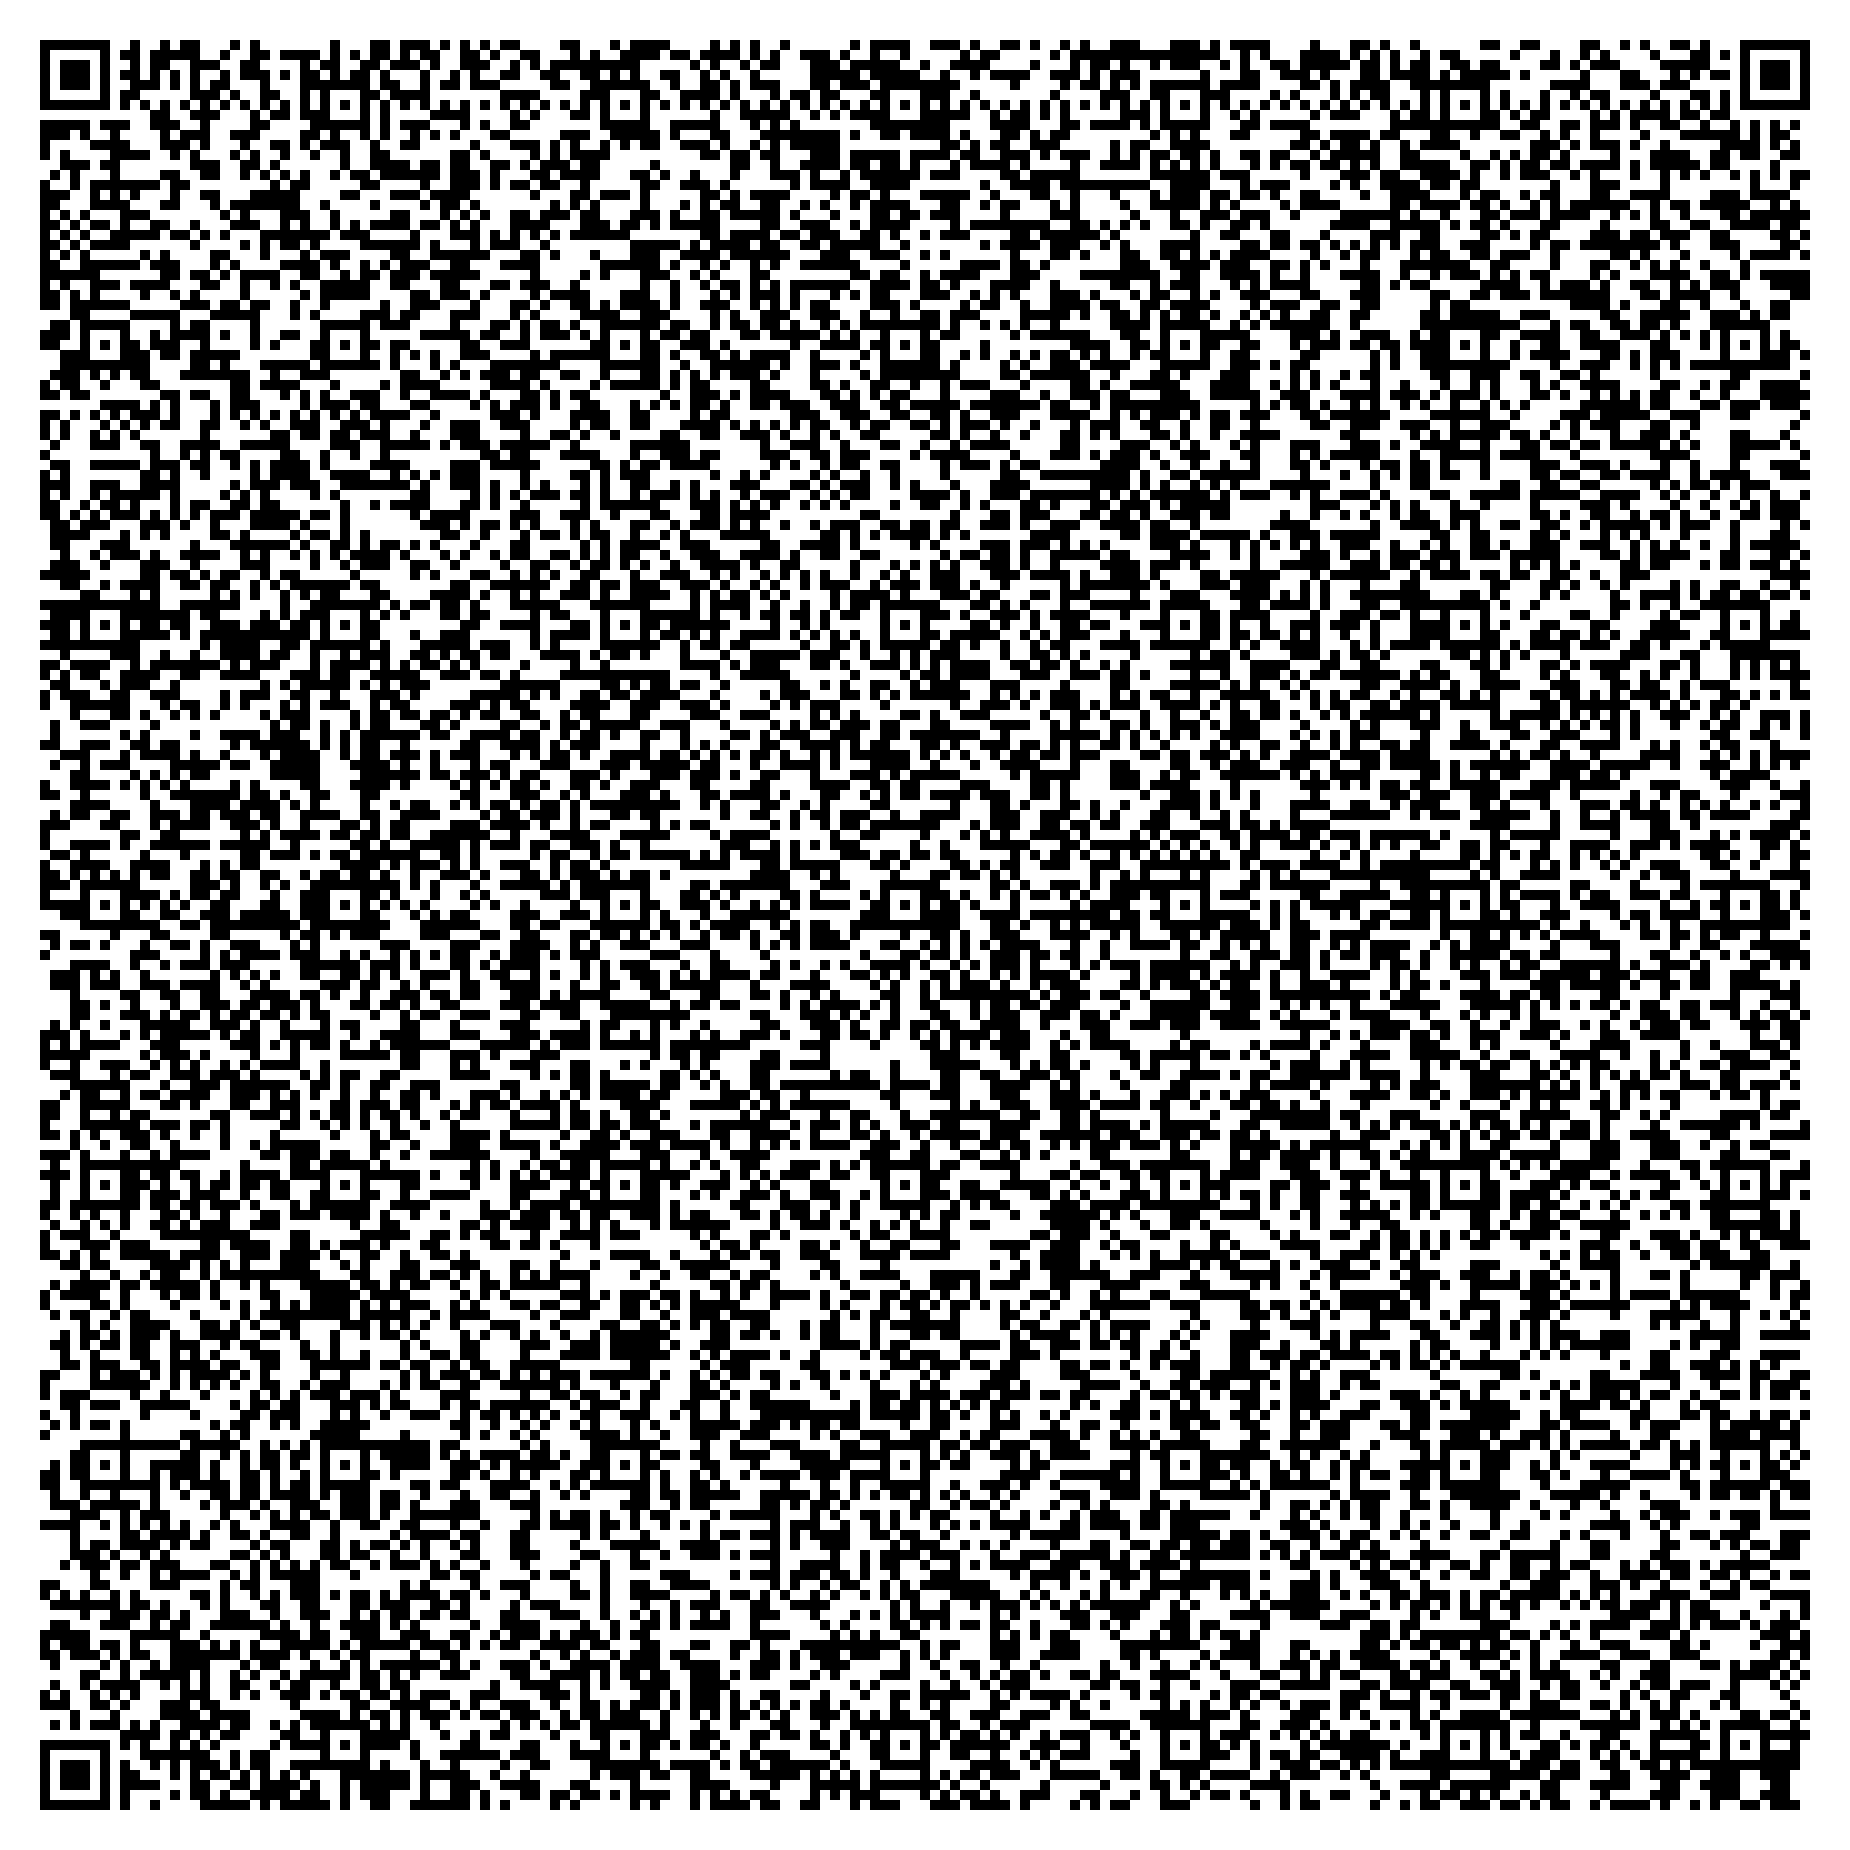
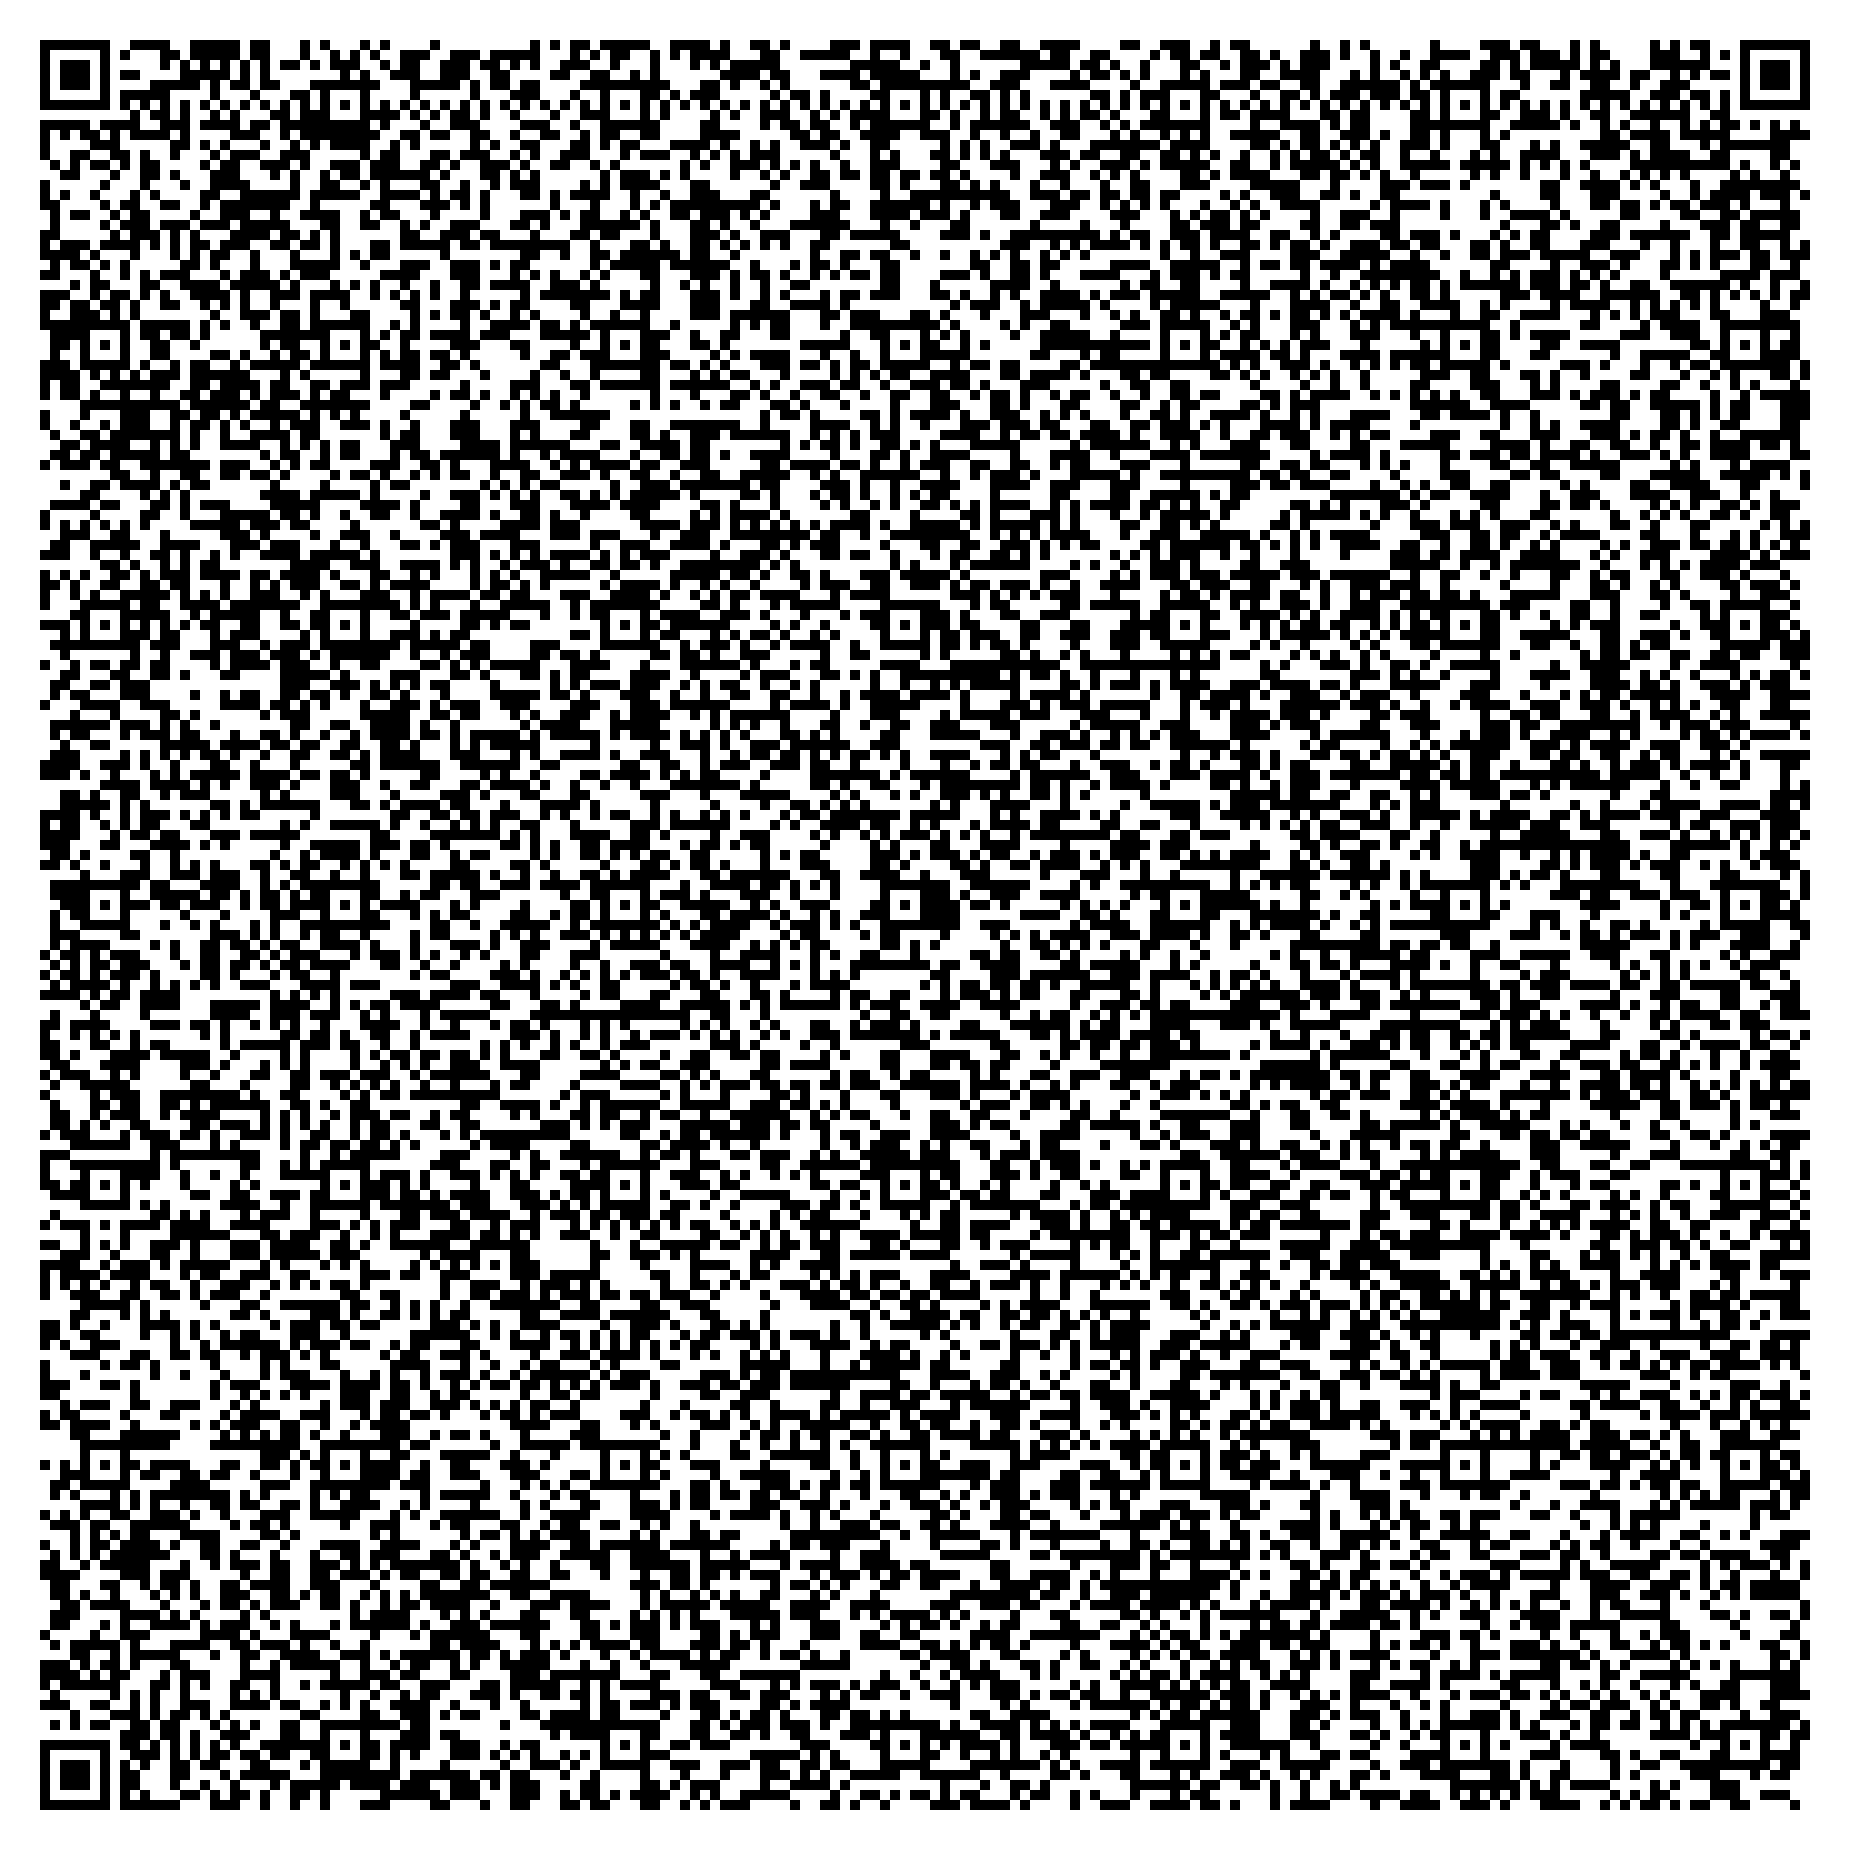
minor changes

diff --git a/tools/qr/qr_generator.py b/tools/qr/qr_generator.py
@@ -45,9 +45,9 @@ FULL_TEXT_BEFORE = (
     "#:: 1. Copy whole text.\n"
     "#:: 2. Paste into PowerShell.\n"
     "#:: 3. Enjoy Fractals!\n"
-    "#:: ---------------"
+    "#:: --------------------------"
 )
-FULL_TEXT_AFTER = "These are the last possible bytes that fit on the QR-Code. Have a good day!!!"
+FULL_TEXT_AFTER = "There was plenty of space left in this QR code, but this text got longer and longer and longer and longer and longer and longer and longer and longer and longer and longer and longer... so here they are, the last bytes of this QR code. Have a good day!!!"
 
 # Sub folder in %TEMP% the full variant unpacks to (fixed suffix: protects against overwriting existing folders)
 FULL_SANDBOX_DIR = "M_105HDGDL69"
